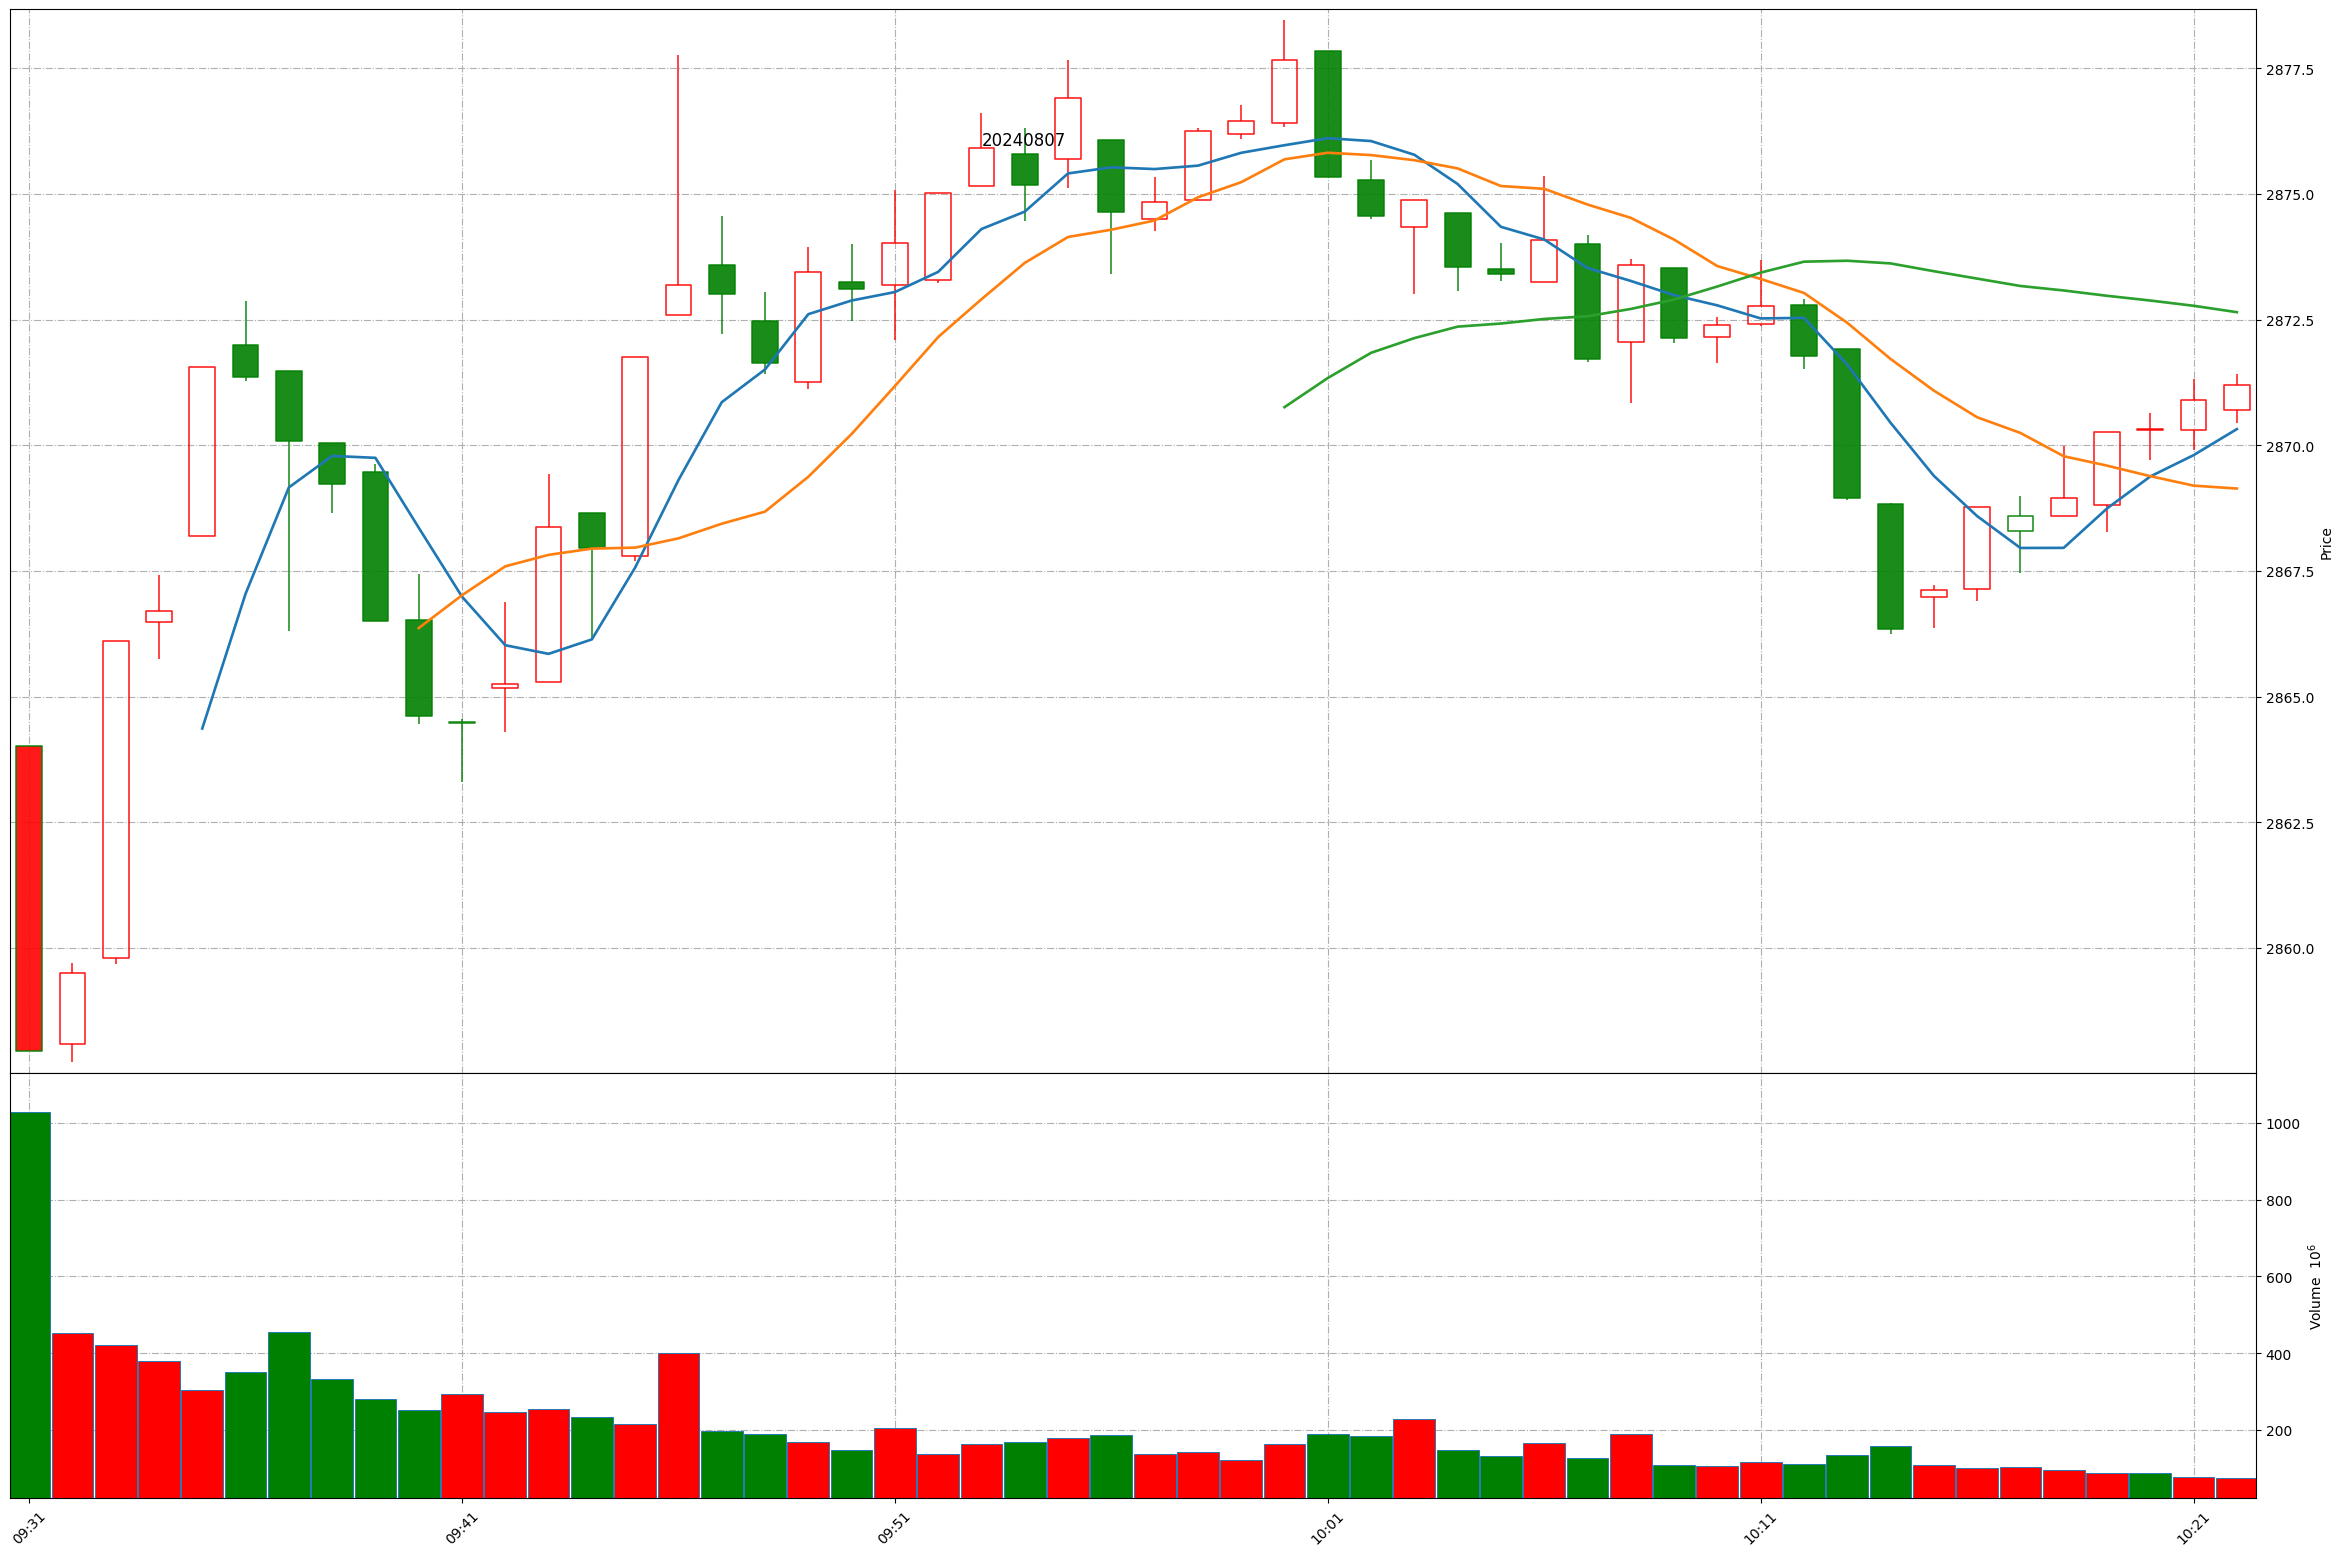
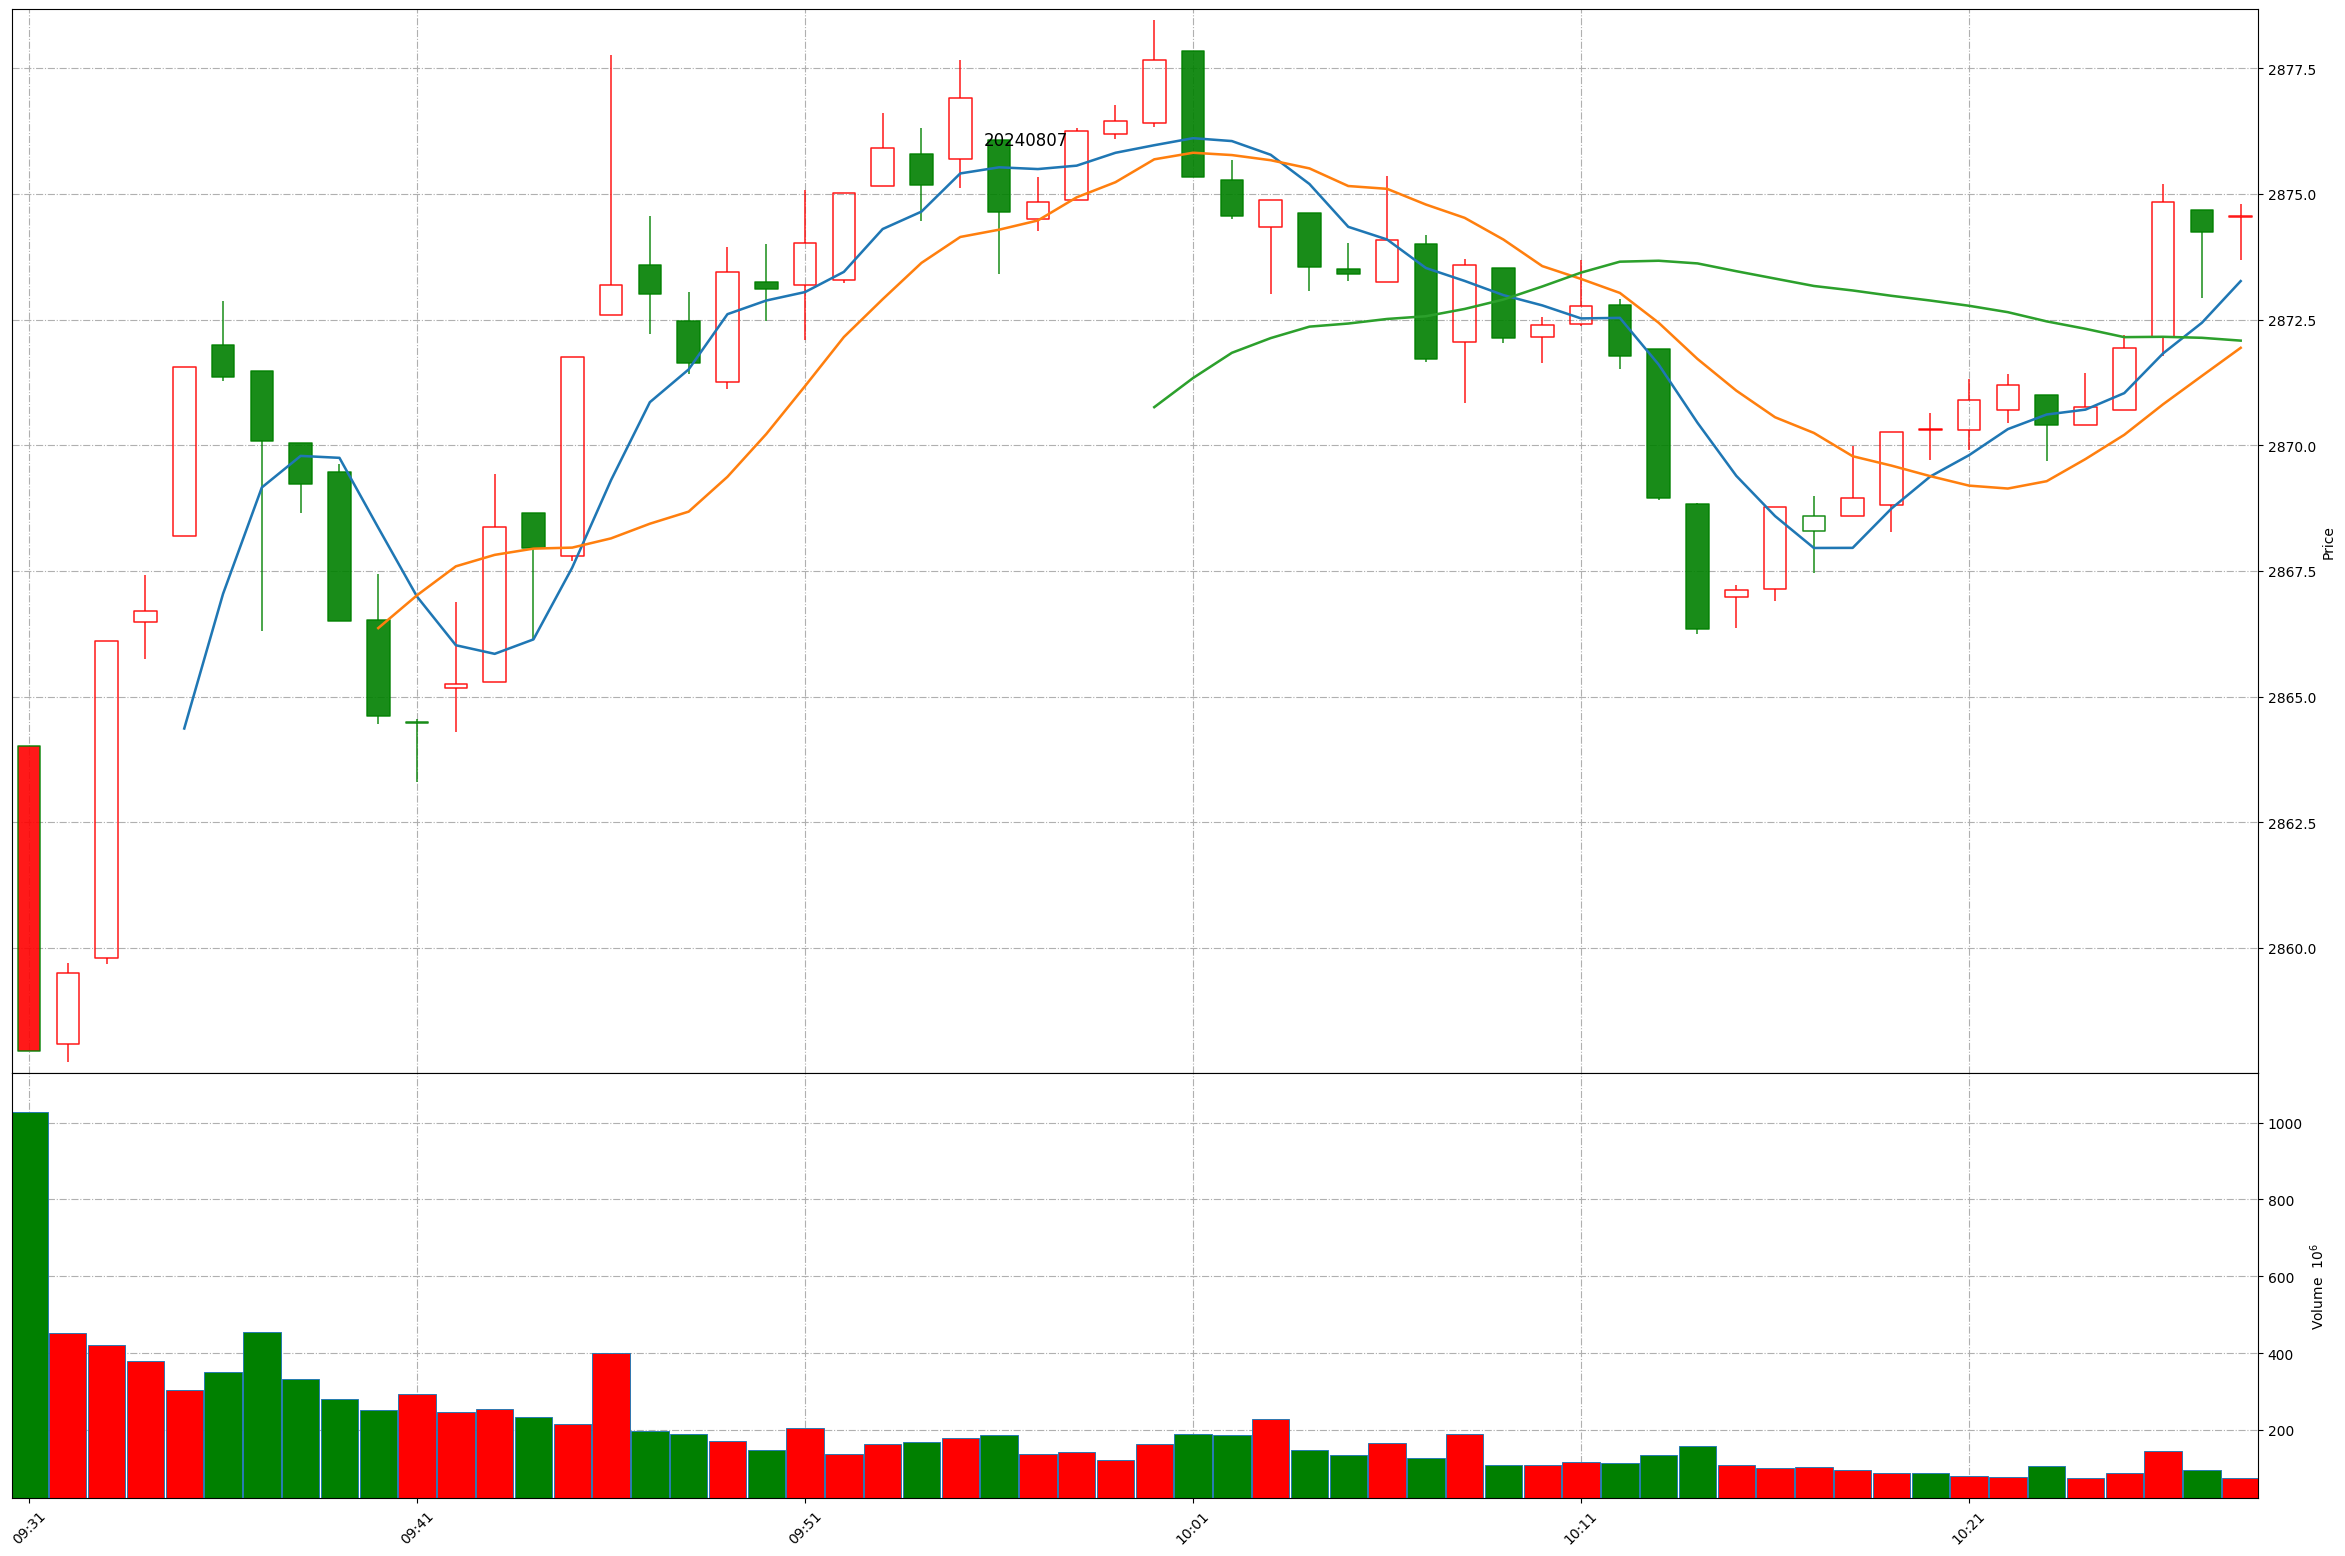
Github action update at 2024-08-07 10:28:27.

diff --git a/README.md b/README.md
@@ -1,11 +1,11 @@
 
 # Daily-A-share-market-quotes 每日 A 股指数（5min 更新）- 20240807
 
-### 上证指数 20240807 10:22
+### 上证指数 20240807 10:28
 ![](./fig/2024/8/20240807-sh000001.png)
 
-### 深证成指 20240807 10:22
+### 深证成指 20240807 10:28
 ![](./fig/2024/8/20240807-sz399001.png)
 
-### 北证50 20240807 10:22
+### 北证50 20240807 10:28
 ![](./fig/2024/8/20240807-bj899050.png)
